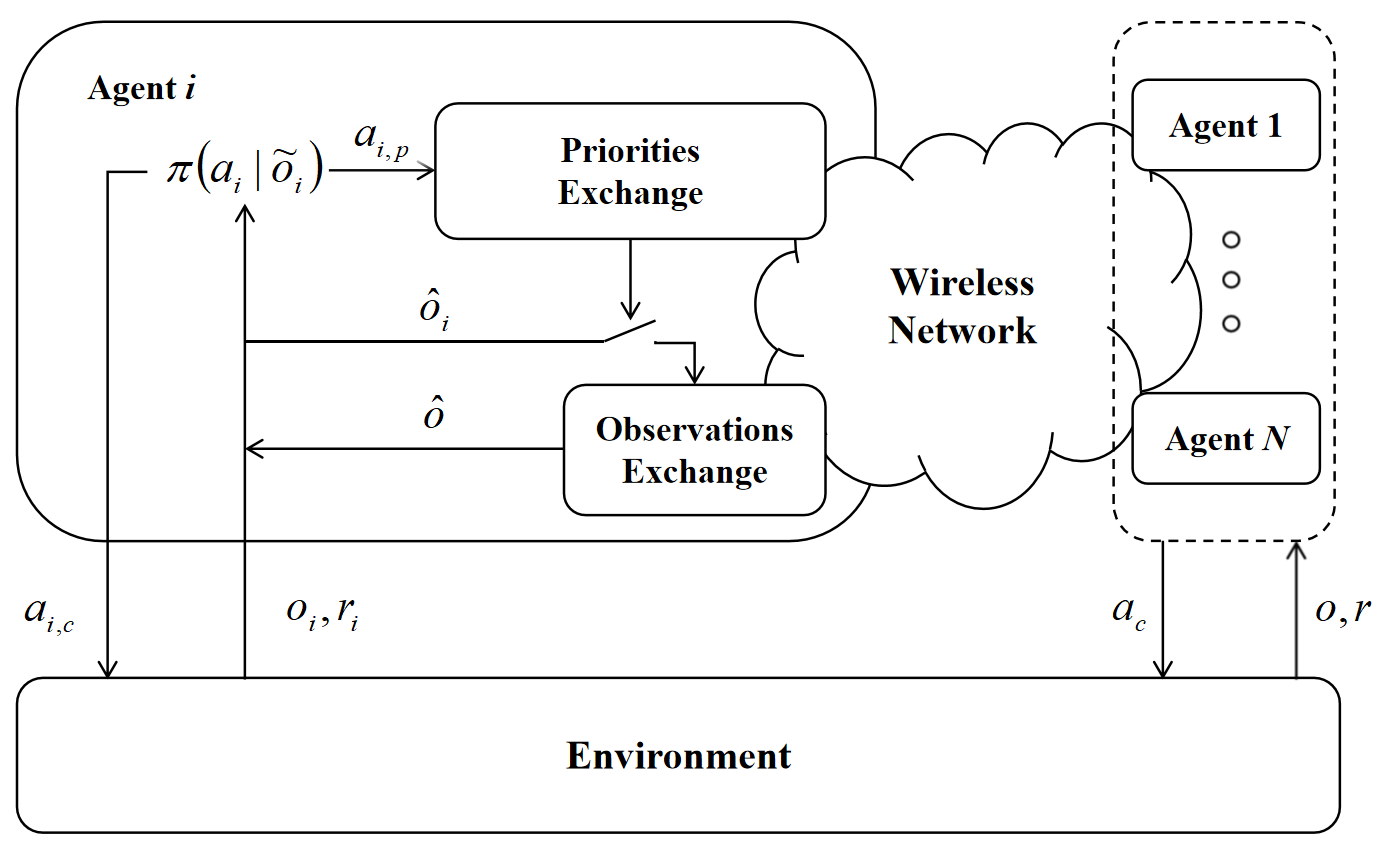
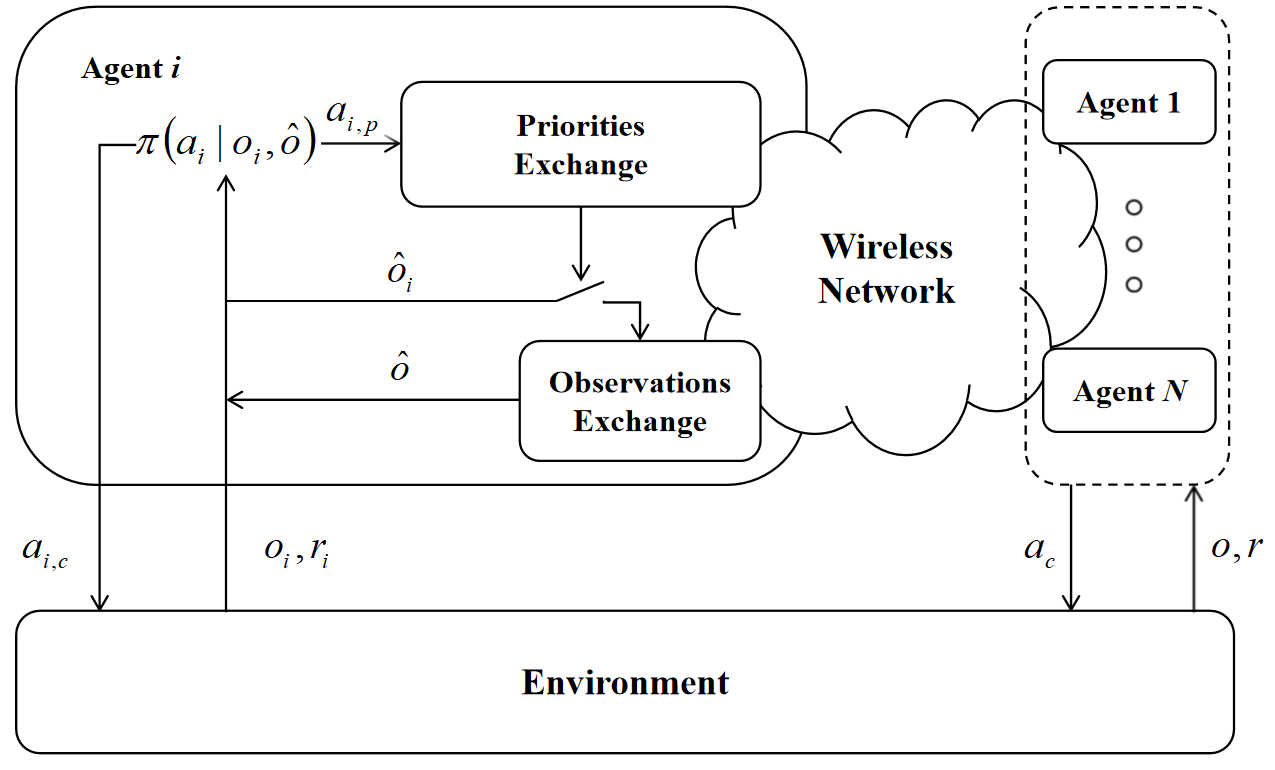
overview change

diff --git a/index.html b/index.html
@@ -139,24 +139,18 @@
   <div class="container is-max-desktop">
     <h2 class="title is-3">Overview</h2>
     <!-- Image to illustrate your method -->
-    <figure class="image is-4by3">
-    <img src="./static/images/system.png" width="200" height="150" alt="Description of the method" />
-    <figcaption class="has-text-centered">Figure: Our framework of priority-based ETC.</figcaption>
-    </figure>
+    <div style="text-align: center; width: 500px;"> 
+      <img src="./static/images/system.png" style="margin: 0 auto;"  alt="Description of the method" />
+    </div>
     <div class="content has-text-justified">
     <p>
       Our method jointly learns control policies and communication priorities using an 
-      independent proximal policy optimization algorithm. Agents exchange priorities 
-      over the wireless network to determine the communication policy, i.e., agents with
-      the highest priorities can send information over the network. As shown in the figure above,
-      a decentralized multi-agent system where each agent \(i\) learns the 
-      policy \(\pi(a_i | o_i)\) based on local observations \(o_i\) and 
-      communicated observations \(\hat{o}\). Agent \(i\) exchanges the communication 
-      priority \(a_{i,\mathrm{p}}\) through a wireless network. Moreover, \(L\) agents 
-      with the highest priorities are allocated bandwidth and send crucial information
-      \(\hat{o}\) to other agents. Agent \(i\) executes the control action \(a_{i,\mathrm{c}}\) 
-      to interact with the environment, getting corresponding rewards and local observations, 
-      which feed back into the policy learning. 
+      independent proximal policy optimization algorithm. A decentralized multi-agent system where each agent \(i\) learns the policy \(\pi(a_i | o_i, \hat{o})\) 
+      based on local observations $o_i$ and communicated observations $\hat{o}$. 
+      Agent $i$ exchanges the communication priority $a_{i,\mathrm{p}}$ through a wireless network. 
+      Moreover, $L$ agents with the highest priorities are allocated bandwidth and send crucial information $\hat{o}$ to other agents. 
+      Agent $i$ executes the control action $a_{i,\mathrm{c}}$ to interact with the environment, getting corresponding rewards and local observations, 
+      which feed back into the policy learning.
       </p>
     </div>
   </div>
